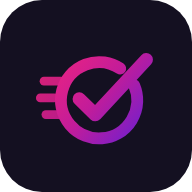
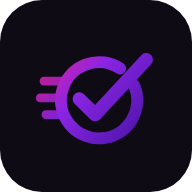
Tema roxo sobre grafite, seguindo o logotipo novo
O Alessandro tinha razão sobre o magenta: metade dos salões é barbearia, e
magenta chapado em botão faz o barbeiro fechar a tela. Quem resolveu foi o
logotipo novo — calendário grafite, aro roxo, cromado, pílula "Gestão" preta.
Ele já não tem gênero, e o sistema passa a seguir ele.

O que mudou
- Os neutros deixam de ser cinza puro e ganham um fio de roxo. Cinza neutro ao
  lado do grafite arroxeado do logotipo parece desbotado; com o fio, o preto da
  tela e o preto da marca viram o mesmo preto.
- A rampa da marca é o roxo do aro, e os tons de trabalho estão nomeados por
  ONDE servem, não por quanto são claros: --rx-fundo para botão, --rx-texto
  para papel claro, --rx-claro para o escuro. Foi trocar um pelo outro que
  quebrou a legibilidade nas versões anteriores.
- O magenta sobrevive só no degradê do logotipo, que é de onde ele veio.
- O logotipo e os quatro ícones do PWA regerados no roxo novo, e a pílula
  virou preta com aro roxo e engrenagem, como no original.

Contraste conferido nos dois temas: 7,72:1 no botão claro, 5,85:1 no escuro,
8,26:1 e 8,56:1 nos textos.

Sobre o dourado
Era o pedido, e não fiz. Dourado ao lado do roxo do logotipo vira bijuteria, e
o produto passaria a ter uma cor que a marca não tem. Cheguei a montar a rampa
inteira antes de desistir — se preferir assim mesmo, é trocar dois valores no
topo do estilo.css.

Claude-Session: https://claude.ai/code/session_019dPfaysb514U6BZz5NVzxM

Changed region(s): [[0.1875, 0.25, 0.8125, 0.75]]

diff --git a/estilo.css b/estilo.css
@@ -15,15 +15,29 @@
    A lateral é escura nos dois temas de propósito. Ela é moldura, não
    conteúdo — escura, ela some da atenção e joga o olho para a agenda.
 
-   A COR VEM DA MARCA
+   ROXO SOBRE GRAFITE
 
-   O logotipo do AgendaPro é magenta virando roxo. Então é essa a cor do
-   sistema, e não o laranja do AdminPro — dois produtos irmãos com o mesmo
-   laranja e logotipos diferentes pareceria clone mal-acabado.
+   Um produto, dois públicos: metade dos salões que usam isto é barbearia. A
+   primeira versão era magenta, e magenta chapado em botão faz o barbeiro
+   fechar a tela em dois segundos.
 
-   O degradê fica no LOGOTIPO. Na interface, o mesmo magenta entra chapado.
-   Degradê em botão e em cabeçalho é o traço mais fácil de reconhecer num
-   layout genérico, e some no primeiro screenshot comprimido.
+   Quem resolveu foi o logotipo novo: calendário grafite, aro roxo, cromado, e
+   a pílula "Gestão" preta. Ele já não tem gênero, e o sistema segue ele. O
+   magenta sobreviveu onde deve — no dia marcado do calendário e na abertura
+   do degradê — que é o lugar em que uma cor pode ser expressiva sem estar
+   dizendo "este botão é para você".
+
+   Cogitei dourado com preto, que era o pedido. Não fiz: dourado ao lado do
+   roxo do logotipo vira bijuteria, e o produto passaria a ter uma cor que a
+   marca não tem. É trocar dois valores neste arquivo se você preferir assim.
+
+   O CONTRASTE MANDA NO TOM, não o gosto
+
+   O mesmo roxo não serve para tudo, e cada uso tem o seu:
+
+     como FUNDO de botão, letra branca    #6321D6   8,4:1
+     como TEXTO em papel claro            #5A1CC0   9,7:1
+     como TEXTO sobre grafite             #B79BF6   9,5:1
 
    Sombra em camadas, nunca uma só. Elevação de verdade tem duas partes: um
    contato curto e escuro que gruda o objeto na superfície, e uma difusa e
@@ -40,57 +54,57 @@
    =========================================================================== */
 
 :root{
-  /* ── Neutros quentes ───────────────────────────────────────────────── */
-  --n-0:#FFFFFF;   --n-25:#FDFCFA;  --n-50:#F8F6F2;  --n-100:#F1EEE8;
-  --n-200:#E5E0D6; --n-300:#D2CBBD; --n-400:#A9A192; --n-500:#7D766A;
-  --n-600:#5A554B; --n-700:#3E3A33; --n-800:#292620; --n-900:#191712;
-  --n-950:#100F0C;
+  /* ── Neutros: grafite com um fio de roxo ───────────────────────────────
+     Não é cinza puro. O calendário do logotipo é grafite levemente arroxeado,
+     e o cinza neutro ao lado dele parece desbotado. Um traço de roxo no
+     neutro faz o preto da tela e o preto da marca serem o mesmo preto. */
+  --n-0:#FFFFFF;   --n-25:#FCFBFD;  --n-50:#F7F6FA;  --n-100:#EFEDF4;
+  --n-200:#E0DDE8; --n-300:#C6C1D3; --n-400:#9B95AC; --n-500:#6E6880;
+  --n-600:#4B4658; --n-700:#332F3E; --n-800:#221F2B; --n-900:#15131C;
+  --n-950:#0C0A11;
 
   /* ── A cor da marca ──────────────────────────────────────────────────
-     O logotipo vai de magenta a roxo, e a interface usa a ponta ROXA.
+     O roxo do aro do logotipo, do 50 ao 800. Os tons de trabalho estão
+     nomeados por ONDE servem, e não por quanto são claros: foi trocar um
+     pelo outro que quebrou a legibilidade nas versões anteriores. */
+  --rx-50:#F4F0FE;  --rx-100:#E9E1FD; --rx-200:#D3C3FB; --rx-300:#B79BF6;
+  --rx-400:#9366EE; --rx-500:#7B2FF7; --rx-600:#6321D6; --rx-700:#5A1CC0;
+  --rx-800:#3F1289;
+  --rx-soft:rgba(123,47,247,.09);
+  --rx-line:rgba(123,47,247,.26);
 
-     Não é preferência: metade dos salões que usam isto é barbearia. Magenta
-     chapado em botão, em aba ativa e em etiqueta é lido como produto para
-     público feminino, e o barbeiro que abre a tela conclui em dois segundos
-     que o sistema não é para ele. Roxo profundo não carrega esse recado —
-     é a mesma família do logotipo, e serve os dois lados.
+  --rx-fundo:var(--rx-600);   /* fundo de botão, letra branca        8,4:1 */
+  --rx-texto:var(--rx-700);   /* roxo escrito em papel claro         9,7:1 */
+  --rx-claro:var(--rx-300);   /* roxo escrito sobre grafite          9,5:1 */
 
-     O magenta continua existindo, e continua sendo a marca: ele vive no
-     degradê do logotipo, que é onde uma cor pode ser expressiva sem estar
-     dizendo "este botão é para você". */
-  --mr-50:#F5F1FE;  --mr-100:#EBE3FD; --mr-200:#D6C6FB; --mr-300:#B79BF6;
-  --mr-400:#9366EE; --mr-500:#7A34E0; --mr-600:#6821C4; --mr-700:#551AA0;
-  --mr-800:#41147A;
-  --mr-soft:rgba(122,52,224,.09);
-  --mr-line:rgba(122,52,224,.28);
-  /* As duas pontas do degradê. Só o logotipo usa as duas juntas. */
-  --rx-500:#7A34E0; --rx-600:#6821C4;
-  --grad-marca:linear-gradient(96deg,#DE1F84 0%,#6D1FD0 100%);
+  /* O magenta da marca. Não pinta interface — só o degradê do logotipo e o
+     dia marcado do calendário, que é de onde ele veio. */
+  --mg-500:#E0219B;
+  --grad-marca:linear-gradient(96deg,#E0219B 0%,#6321D6 62%,#4B14A8 100%);
 
-  /* ── Semânticos, dessaturados para conviver com o dourado ──────────── */
-  --su-500:#3F7A46; --su-soft:rgba(63,122,70,.10);
-  --wa-500:#A9631A; --wa-soft:rgba(169,99,26,.10);
-  --er-500:#A63328; --er-soft:rgba(166,51,40,.09);
+  /* ── Semânticos, dessaturados para conviver com o roxo ─────────────── */
+  --su-500:#2F7D4F; --su-soft:rgba(47,125,79,.10);
+  --wa-500:#A56411; --wa-soft:rgba(165,100,17,.10);
+  --er-500:#B3261E; --er-soft:rgba(179,38,30,.09);
 
   /* ── Tokens que as telas já usavam, redirecionados ─────────────────── */
-  --ac-500:var(--mr-500); --ac-600:var(--mr-600); --ac-700:var(--mr-700);
-  --ac-soft:var(--mr-soft); --ac-line:var(--mr-line);
-  --roxo:var(--mr-500); --roxo-esc:var(--mr-600); --rosa:var(--mr-400);
-  --ouro:var(--mr-500); --ouro-claro:var(--mr-400); --ouro-esc:var(--mr-700);
-  --info:var(--mr-600);
+  --ac-500:var(--rx-500); --ac-600:var(--rx-texto); --ac-700:var(--rx-800);
+  --ac-soft:var(--rx-soft); --ac-line:var(--rx-line);
+  --roxo:var(--rx-texto); --roxo-esc:var(--rx-800); --rosa:var(--rx-500);
+  --ouro:var(--rx-500); --ouro-claro:var(--rx-400); --ouro-esc:var(--rx-700);
+  --info:var(--rx-texto);
 
   --bg:var(--n-50);   --painel:var(--n-0); --painel2:var(--n-25);
-  /* A moldura: sempre escura, nos dois temas. */
-  --lat:#141021; --lat-2:#1C1630; --lat-borda:rgba(255,255,255,.08);
-  --lat-txt:#EDE9F5; --lat-txt2:rgba(237,233,245,.60); --lat-txt3:rgba(237,233,245,.34);
+  /* A moldura: grafite nos dois temas, com o roxo por cima. */
+  --lat:#0E0B15; --lat-2:#171122; --lat-borda:rgba(147,102,238,.16);
+  --lat-txt:#F2EFF8; --lat-txt2:rgba(242,239,248,.58); --lat-txt3:rgba(242,239,248,.34);
   --lat-largura:252px;
   --borda:var(--n-200); --borda-forte:var(--n-300);
   --txt:var(--n-900); --txt2:var(--n-600); --txt3:var(--n-400);
   --ok:var(--su-500); --alerta:var(--wa-500); --erro:var(--er-500);
 
-  /* A ação primária é o magenta da marca. Guardá-lo só para detalhe e
-     deixar o botão preto seria ter uma cor e não usá-la. */
-  --acao:var(--mr-600); --acao-hover:var(--mr-700); --acao-txt:#FFFFFF;
+  /* A ação primária é o roxo da marca, com letra branca. */
+  --acao:var(--rx-fundo); --acao-hover:var(--rx-700); --acao-txt:#FFFFFF;
   /* Ação de peso mas sem brilho: confirmar, salvar, tudo que é rotina. */
   --tinta:var(--n-900); --tinta-hover:var(--n-800); --tinta-txt:var(--n-0);
 
@@ -102,7 +116,7 @@
   --sombra:0 1px 2px rgba(25,23,18,.05), 0 2px 6px -1px rgba(25,23,18,.06);
   --sombra-md:0 2px 4px -1px rgba(25,23,18,.05), 0 8px 20px -4px rgba(25,23,18,.10);
   --sombra-lg:0 4px 8px -2px rgba(25,23,18,.06), 0 20px 44px -10px rgba(25,23,18,.16);
-  --sombra-marca:0 1px 2px rgba(85,26,160,.20), 0 6px 16px -5px rgba(104,33,196,.32);
+  --sombra-marca:0 1px 2px rgba(63,18,137,.22), 0 6px 16px -5px rgba(99,33,214,.34);
 
   /* ── Tipografia ──────────────────────────────────────────────────────
      A fonte do Windows, que é onde o salão trabalha: o computador da recepção
@@ -125,31 +139,36 @@
                   -apple-system,"Roboto",Arial,sans-serif;
 }
 
-/* No escuro o dourado sobe na rampa: #8F7220 sobre preto some, e o mesmo
-   tom que dá contraste no papel branco não dá na tinta. */
+/* O tema escuro é onde este visual mora: grafite com o roxo por cima, do
+   jeito do logotipo. O claro é a versão para quem trabalha com a loja aberta
+   e o sol batendo no monitor. */
 [data-tema="escuro"], html[data-tema="escuro"]{
-  --bg:#0F0C16; --painel:#171226; --painel2:#1D1730;
-  --borda:#2A2340; --borda-forte:#3B3253;
-  --txt:#F2EFF8; --txt2:#A49CBA; --txt3:#6E668A;
+  --bg:#0A0810; --painel:#131019; --painel2:#191524;
+  --borda:#282334; --borda-forte:#3A3348;
+  --txt:#F2EFF8; --txt2:#A49CB8; --txt3:#6C6580;
 
-  /* No escuro o roxo sobe na rampa: #6821C4 sobre preto perde contraste. */
-  --mr-500:#B79BF6; --mr-600:#9366EE; --mr-700:#7A34E0;
-  --mr-soft:rgba(183,155,246,.12); --mr-line:rgba(183,155,246,.30);
-  --ac-500:var(--mr-500); --ac-600:var(--mr-500); --ac-700:var(--mr-600);
-  --ac-soft:var(--mr-soft); --ac-line:var(--mr-line);
+  /* Sobre grafite o roxo sobe na rampa: o #5A1CC0 que serve de texto no papel
+     claro some aqui. */
+  --rx-texto:var(--rx-300);
+  --ac-500:var(--rx-300); --ac-600:var(--rx-300); --ac-700:var(--rx-200);
+  --rx-soft:rgba(183,155,246,.13); --rx-line:rgba(183,155,246,.30);
+  --ac-soft:var(--rx-soft); --ac-line:var(--rx-line);
 
-  --su-500:#6FA877; --wa-500:#D19A4E; --er-500:#D9695C;
-  --su-soft:rgba(111,168,119,.12); --wa-soft:rgba(209,154,78,.12);
-  --er-soft:rgba(217,105,92,.12);
+  --su-500:#5FB07E; --wa-500:#D19A4E; --er-500:#E27A72;
+  --su-soft:rgba(95,176,126,.12); --wa-soft:rgba(209,154,78,.12);
+  --er-soft:rgba(226,122,114,.12);
 
-  --acao:var(--mr-600); --acao-hover:var(--mr-500); --acao-txt:#150330;
-  --tinta:#F2EFF8; --tinta-hover:#FFFFFF; --tinta-txt:#0F0C16;
+  /* O botão sobe um degrau para não sumir no grafite, e continua de letra
+     branca — é a mesma peça nos dois temas, e trocar a cor da letra entre
+     eles faria o produto parecer dois. */
+  --acao:var(--rx-500); --acao-hover:var(--rx-400); --acao-txt:#FFFFFF;
+  --tinta:#F2EFF8; --tinta-hover:#FFFFFF; --tinta-txt:#0A0810;
 
   --sombra-xs:0 1px 1px rgba(0,0,0,.35);
   --sombra:0 1px 2px rgba(0,0,0,.45), 0 2px 6px -1px rgba(0,0,0,.35);
   --sombra-md:0 2px 6px rgba(0,0,0,.42), 0 12px 28px -6px rgba(0,0,0,.45);
   --sombra-lg:0 4px 10px rgba(0,0,0,.45), 0 24px 52px -12px rgba(0,0,0,.55);
-  --sombra-marca:0 1px 2px rgba(0,0,0,.5), 0 6px 18px -6px rgba(216,192,119,.30);
+  --sombra-marca:0 1px 2px rgba(0,0,0,.55), 0 6px 18px -6px rgba(123,47,247,.34);
 }
 
 
@@ -204,7 +223,7 @@
    palavra cortada no meio. */
 .marca-etiqueta{
   font-size:9.5px; font-weight:700; letter-spacing:.13em; text-transform:uppercase;
-  color:var(--mr-200); background:rgba(147,102,238,.18);
+  color:var(--rx-200); background:rgba(147,102,238,.18);
   border:1px solid rgba(147,102,238,.32);
   padding:2px 9px; border-radius:var(--r-pill); line-height:1.6;
   align-self:center;
@@ -239,14 +258,14 @@
 }
 .lat-nav .aba:hover{ background:rgba(255,255,255,.06); color:var(--lat-txt) }
 .lat-nav .aba.on{
-  background:var(--mr-soft); color:var(--mr-200); font-weight:600;
+  background:var(--rx-soft); color:var(--rx-200); font-weight:600;
   border-bottom:none !important;
 }
 /* A tarja da esquerda é o que diz "você está aqui" de longe, sem depender de
    distinguir dois tons de rosa no escuro. */
 .lat-nav .aba.on::before{
   content:""; position:absolute; left:-12px; top:6px; bottom:6px; width:3px;
-  border-radius:0 3px 3px 0; background:var(--mr-400);
+  border-radius:0 3px 3px 0; background:var(--rx-400);
 }
 .aba-ic{
   width:30px; height:30px; flex:none; border-radius:8px;
@@ -404,7 +423,7 @@ td, .tabela td, .hslot, .horas button, .cs-rodape .vv, .vv{
    nenhum degradê — é assim que marca de software se comporta em tamanho
    pequeno, onde degradê vira borrão. */
 .marca-ic, .logo i{
-  background:var(--tinta) !important; color:var(--mr-400) !important;
+  background:var(--tinta) !important; color:var(--rx-400) !important;
   border-radius:var(--r-sm) !important; font-weight:600 !important;
   box-shadow:var(--sombra-xs);
 }
@@ -517,7 +536,7 @@ td, .tabela td, .hslot, .horas button, .cs-rodape .vv, .vv{
 .regua button:hover{border-color:var(--n-300);color:var(--txt)}
 /* Anel dourado em volta da ficha de tinta: o detalhe que amarra as duas
    cores sem colocá-las para brigar. */
-.regua button.on{box-shadow:0 0 0 3px var(--mr-soft) !important}
+.regua button.on{box-shadow:0 0 0 3px var(--rx-soft) !important}
 /* O plano em destaque é uma recomendação da casa, não uma escolha já feita:
    ele usa a cor de ação (a mesma do botão), e não o verde de seleção — senão
    a tela mostra dois planos "escolhidos", o marcado e o recomendado. */
@@ -670,7 +689,7 @@ input.ruim, select.ruim{border-color:var(--er-500) !important}
 /* A aba ativa é o único lugar em que o dourado aparece como linha. Uma
    régua de 2px pesa mais que 1px sem virar barra colorida. */
 .aba.on{
-  color:var(--txt); border-bottom:2px solid var(--mr-500) !important;
+  color:var(--txt); border-bottom:2px solid var(--rx-500) !important;
   font-weight:600;
 }
 

diff --git a/icones/gerar-logotipo.py b/icones/gerar-logotipo.py
@@ -60,13 +60,13 @@ def montar(d1, d2, w1, w2, *, tinta, com_pilula):
   <defs>
     <linearGradient id="lg-g" x1="{w1:.0f}" y1="30" x2="{larg-40:.0f}" y2="150"
                     gradientUnits="userSpaceOnUse">
-      <stop offset="0" stop-color="#F0247E"/>
-      <stop offset=".45" stop-color="#C21C9A"/>
-      <stop offset="1" stop-color="#6D1FD0"/>
+      <stop offset="0" stop-color="#E0219B"/>
+      <stop offset=".38" stop-color="#8A25E4"/>
+      <stop offset="1" stop-color="#4B14A8"/>
     </linearGradient>
     <linearGradient id="lg-c" x1="60" y1="170" x2="{larg-90:.0f}" y2="150"
                     gradientUnits="userSpaceOnUse">
-      <stop offset="0" stop-color="#F0247E"/><stop offset="1" stop-color="#5B1FD0"/>
+      <stop offset="0" stop-color="#E0219B"/><stop offset="1" stop-color="#4B14A8"/>
     </linearGradient>
     <linearGradient id="lg-p" x1="120" y1="185" x2="430" y2="240"
                     gradientUnits="userSpaceOnUse">
@@ -98,11 +98,14 @@ def montar(d1, d2, w1, w2, *, tinta, com_pilula):
         fill="none" stroke="url(#lg-c)" stroke-width="14" stroke-linecap="round"/>
 {f"""
   <g transform="translate({meio:.0f} 182)">
-    <rect width="300" height="62" rx="31" fill="url(#lg-p)"/>
-    <g transform="translate(36 16)" fill="none" stroke="#fff" stroke-width="3.4"
-       stroke-linecap="round" stroke-linejoin="round">
-      <rect x="1" y="4" width="30" height="26" rx="4"/>
-      <path d="M1 12h30M9.5 1v6M22.5 1v6"/><path d="m10 21 5 5 9-10"/>
+    <rect x="2" y="2" width="296" height="58" rx="29" fill="#14111C"
+          stroke="url(#lg-p)" stroke-width="4"/>
+    <g transform="translate(38 15)" fill="#fff">
+      <path d="M15 0h2l1.1 4.2 3 1.2 3.6-2.3 1.4 1.4-2.3 3.6 1.2 3L29.2 12v2l-4.2 1.1
+               -1.2 3 2.3 3.6-1.4 1.4-3.6-2.3-3 1.2L17 25.2h-2l-1.1-4.2-3-1.2-3.6 2.3
+               -1.4-1.4 2.3-3.6-1.2-3L2.8 14v-2l4.2-1.1 1.2-3L5.9 4.3l1.4-1.4 3.6 2.3
+               3-1.2Z"/>
+      <circle cx="16" cy="13" r="4.4" fill="#14111C"/>
     </g>
     <path d="M86 15v32" stroke="#fff" stroke-width="2.6" stroke-linecap="round" opacity=".8"/>
     <text x="112" y="42" fill="#fff" font-size="29" font-weight="800" letter-spacing="2.6"
